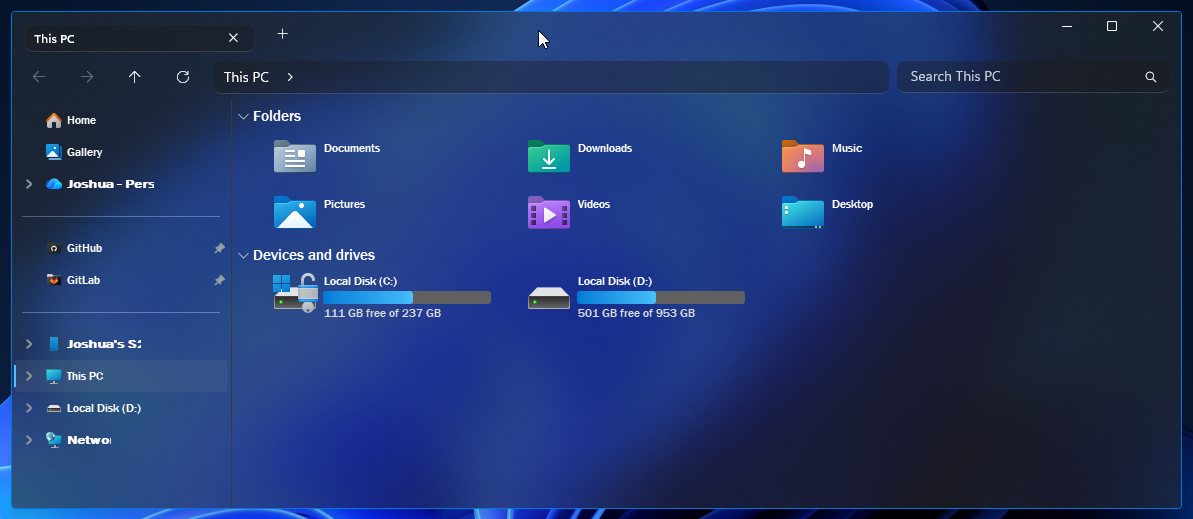
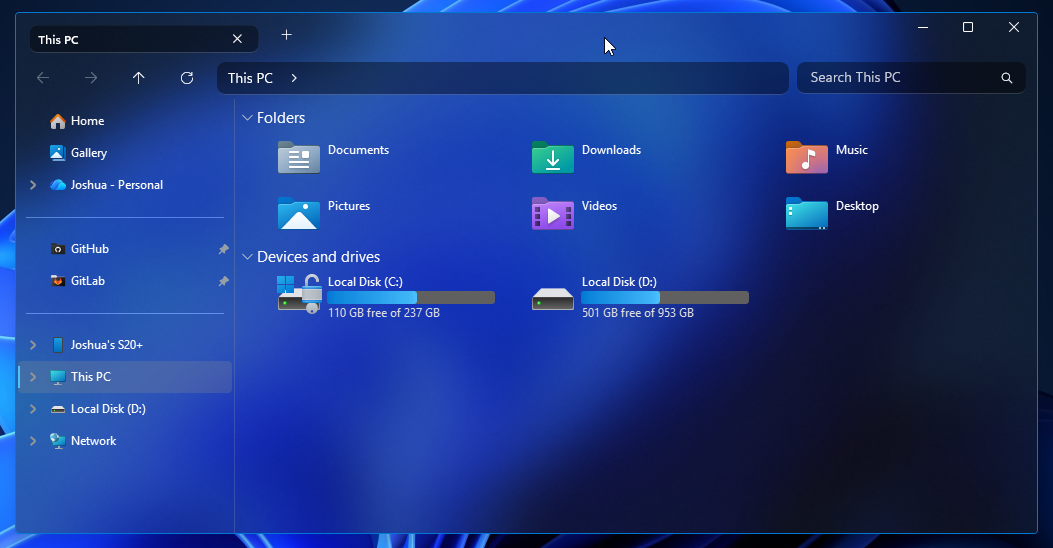
Update LiquidGlass theme styles for improved accent background color

diff --git a/Themes/LiquidGlass/README.md b/Themes/LiquidGlass/README.md
@@ -187,7 +187,7 @@ The theme styles can also be imported manually. To do that, follow these steps:
   "styleConstants[1]": "Background=<WindhawkBlur BlurAmount=\"15\" TintColor=\"{ThemeResource SystemAltLowColor}\" TintOpacity=\"0.2\" />",
   "styleConstants[2]": "ElementBackground=<WindhawkBlur BlurAmount=\"20\" TintColor=\"{ThemeResource SystemAltLowColor}\" TintOpacity=\"0.4\" />",
   "styleConstants[3]": "ElementBackground2=<WindhawkBlur BlurAmount=\"20\" TintColor=\"{ThemeResource SystemAltLowColor}\" TintOpacity=\"0.2\" />",
-  "styleConstants[4]": "AccentBackground=<WindhawkBlur BlurAmount=\"15\" TintColor=\"{ThemeResource SystemAccentColor}\" TintOpacity=\"0.2\" />",
+  "styleConstants[4]": "AccentBackground=<WindhawkBlur BlurAmount=\"15\" TintColor=\"{ThemeResource SystemAccentColorLight1}\" TintOpacity=\"0.2\" />",
   "styleConstants[5]": "BorderBrush=<LinearGradientBrush StartPoint=\"0,0\" EndPoint=\"0,1\"><GradientStop Color=\"#50808080\" Offset=\"0.0\" /><GradientStop Color=\"#50404040\" Offset=\"0.25\" /><GradientStop Color=\"#50808080\" Offset=\"1\" /></LinearGradientBrush>",
   "styleConstants[6]": "ElementBorderBrush=<LinearGradientBrush StartPoint=\"0,0\" EndPoint=\"0,1\"><GradientStop Color=\"#50808080\" Offset=\"1\" /><GradientStop Color=\"#50606060\" Offset=\"0.15\" /></LinearGradientBrush>",
   "styleConstants[7]": "BorderThickness=0.3,1,0.3,0.3",
